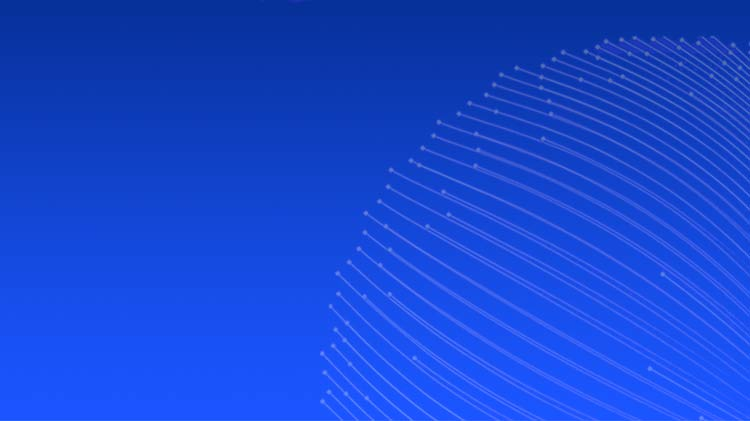
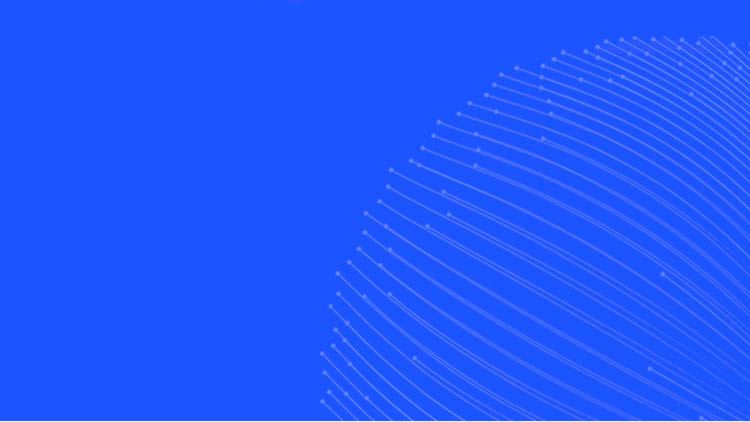
v1.0.9 modify UI

diff --git a/walletApp/src/pages/home.vue b/walletApp/src/pages/home.vue
@@ -6,38 +6,40 @@
     <!-- <p class="home-header">{{$t('index.home')}}</p> -->
     <account-detail></account-detail>
     <div class="is-backup">
+      <group>
         <cell :title="$t('index.manage_wallets')" is-link :link="`/wallet-manage?account=${this.$store.state.account}`">
-          <img slot="icon" class="backup-icon" src="../assets/icon_01-01.png" width="24" height="22" alt="">
+          <img slot="icon" class="backup-icon" src="../assets/icon_01-01.jpg" width="22" height="22" alt="">
         </cell>
-        <cell :title="$t('index.transaction_record')" is-link :link="`/trading-record?account=${this.$store.state.account}`">
-          <img slot="icon" class="backup-icon" src="../assets/icon_09.png" width="21" height="23" alt="">
+        <cell class="has-before cell-border-bottom" :title="$t('index.transaction_record')" is-link :link="`/trading-record?account=${this.$store.state.account}`">
+          <img slot="icon" class="backup-icon" src="../assets/icon_09.jpg" width="23" height="22" alt="">
         </cell>
-        <cell :title="$t('index.authorization_record')" is-link :link="`/authorization-record?account=${this.$store.state.account}`">
-          <img slot="icon" class="backup-icon" src="../assets/icon_icon011.png" width="21" height="17" alt="">
+        <cell class="cell-border-bottom cell-border-top" style="margin-top:1.428571rem;border-top: 1px solid #e5e5e5;" :title="$t('index.authorization_record')" is-link :link="`/authorization-record?account=${this.$store.state.account}`">
+          <img slot="icon" class="backup-icon" src="../assets/icon_icon011.jpg" width="25" height="24" alt="">
           <div class="badge-value" v-if="$store.state.hasMsg">
             <span class="vertical-middle">{{ $t('index.message') }} &nbsp;</span>
             <badge :text="$store.state.msgList.length"></badge>
           </div>
         </cell>
-        <cell :title="$t('index.agreement')" is-link :link="`/user-agreement`">
-          <img slot="icon" class="backup-icon" src="../assets/agreement.png" width="21" height="17" alt="">
+        <cell class="cell-border-top" style="margin-top:1.428571rem;border-top: 1px solid #e5e5e5;" :title="$t('index.agreement')" is-link :link="`/user-agreement`">
+          <img slot="icon" class="backup-icon" src="../assets/agreement.jpg" width="24" height="22" alt="">
         </cell>
-        <cell v-if="!isIdentity" :title="$t('index.identity')" is-link :link="`/identity-authentication?account=${this.$store.state.account}`">
-          <img slot="icon" class="backup-icon" src="../assets/auth.png" width="21" height="17" alt="">
+        <cell v-if="!isIdentity" class="has-before cell-border-bottom" :title="$t('index.identity')" is-link :link="`/identity-authentication?account=${this.$store.state.account}`">
+          <img slot="icon" class="backup-icon" src="../assets/auth.png" width="24" height="19" alt="">
         </cell>
-        <cell v-else :title="$t('index.identity')">
-          <img slot="icon" class="backup-icon" src="../assets/auth.png" width="21" height="17" alt="">
+        <cell v-else :title="$t('index.identity')" class="has-before cell-border-bottom">
+          <img slot="icon" class="backup-icon" src="../assets/auth.png" width="24" height="19" alt="">
           <div>
             <img src="../assets/isidentity.png" width="60" height="25" alt="">
           </div>
         </cell>
+      </group>
     </div>
   </div>
 </template>
 
 
 <script>
-import { XHeader, TransferDom, Loading, Cell, Badge } from 'vux'
+import { XHeader, TransferDom, Loading, Cell, Group, Badge } from 'vux'
 import accountDetail from '../components/accountDetail'
 export default {
   name: 'index',
@@ -49,6 +51,7 @@ export default {
     Loading,
     XHeader,
     Cell,
+    Group,
     Badge
   },
   methods: {
@@ -141,12 +144,22 @@ export default {
   }
 }
 .is-backup{
-  // border-bottom: 1px solid #D9D9D9;
+  // border-bottom: 1px solid #e5e5e5;
+  background-color: #cccccc1a;
   font-size: 16px;
   color: #333333;
-  background-color:#fff;
   .weui-cell{
-    border-bottom: 1px solid #D9D9D9;
+    // border-bottom: 1px solid #e5e5e5;
+    background: #ffffff;
+  }
+  .has-before:before{
+    border-top: 1px solid #98b3db!important;
+  }
+  .cell-border-top{
+    border-top:1px solid #d3e1f5!important;
+  }
+  .cell-border-bottom{
+    border-bottom:1px solid #d3e1f5!important;
   }
 }
 // @header-background-color:#fff

diff --git a/walletApp/src/pages/index.vue b/walletApp/src/pages/index.vue
@@ -12,18 +12,18 @@
     </x-header> -->
     <div class="index-header">
       <img @click="onClickMore" class="sys" src="../assets/language.png"/>
-      <img @click="qrcode" class="sys" style="float:right;margin-right:1.142857rem" src="../assets/sys.png"/>
+      <img v-if="isNative" @click="qrcode" class="sys" style="float:right;margin-right:1.142857rem" src="../assets/sys.png"/>
     </div>
     <account-detail></account-detail>
     <div class="is-backup">
-      <cell v-if="isTransfer" :title="$t('index.SIC')" :value="balance + '  SIC'" is-link :link="`/transfer?account=${this.$store.state.account}`">
-        <img slot="icon" class="backup-icon" src="../assets/icon_14.png" width="25" height="25" alt="">
+      <cell v-if="isTransfer" class="none-bottom" :title="$t('index.SIC')" :value="balance + '  SIC'" is-link :link="`/transfer?account=${this.$store.state.account}`">
+        <img slot="icon" class="backup-icon" src="../assets/icon_14.png" width="20" height="22" alt="">
       </cell>
       <cell v-else :title="$t('index.SIC')" :value="balance + '  SIC'" >
-        <img slot="icon" class="backup-icon" src="../assets/icon_14.png" width="25" height="25" alt="">
+        <img slot="icon" class="backup-icon" src="../assets/icon_14.png" width="20" height="22" alt="">
       </cell>
       <cell :title="$t('index.backup_wallet')" is-link :link="`/wallet-backup?account=${this.$store.state.account}`">
-        <img slot="icon" class="backup-icon" src="../assets/icon_11.png" width="25" height="25" alt="">
+        <img slot="icon" style="margin-left:-2px" class="backup-icon" src="../assets/icon_11.png" width="24" height="22" alt="">
       </cell>
     </div>
     <div v-transfer-dom>
@@ -246,7 +246,9 @@ export default {
     this.box && this.box.removeEventListener('scroll', this.handler, false)
   },
   created () {
-    this.checkUpdate()
+    if (AppConfig.isNative) {
+      this.checkUpdate()
+    }
     this.wallets = this.$common.get_wallets()
     if (this.$route.query.account) {
       this.$store.state.account = this.$route.query.account
@@ -300,6 +302,7 @@ export default {
       isVersions: AppConfig.versions,
       serverAppVersion: '',
       AppUpDataUrl: '',
+      isNative: AppConfig.isNative,
       isTransfer: AppConfig.isTransfer
     }
   }
@@ -341,8 +344,14 @@ export default {
   color: #333333;
   background-color:#fff;
   .weui-cell{
-    border-bottom: 1px solid #D9D9D9;
+    border-bottom: 1px solid #e5e5e5;
   }
+  // .none-bottom{
+  //   border-bottom:none;
+  // }
+  // .weui-cell:before{
+  //   border-top: 1px solid #e5e5e5;
+  // }
 }
 .eye{
   width: 1.214286rem;
@@ -351,7 +360,7 @@ export default {
 }
 .balance{
   line-height: 1.5rem;
-  border-bottom: 1px solid #D9D9D9;
+  border-bottom: 1px solid #e5e5e5;
   background-color:#fff;
   padding: 2px 0;
 }

diff --git a/walletApp/src/App.vue b/walletApp/src/App.vue
@@ -144,7 +144,6 @@ export default {
       this.$router.push('/create-account')
     } else {
       if (this.$store.state.account === '') {
-        console.log(this.$route.params.account)
         if (this.$route.params.account) {
           this.$store.state.account = this.$route.params.account
         } else {
@@ -152,7 +151,7 @@ export default {
         }
       }
     }
-    if (!this.$common.getStore(AppConfig.versions)) {
+    if (AppConfig.isNative && !this.$common.getStore(AppConfig.versions)) {
       this.$common.setStore(AppConfig.versions, AppConfig.versions)
       this.$router.push('/guidance')
     }
@@ -180,6 +179,17 @@ export default {
   .is-error-step .vux-step-item-main{
     color: #f59902!important;
   }
+  .vux-header .vux-header-title{
+    font-weight: 200!important;
+  }
+  .vux-fixed .vux-tab{
+    height: 3.285714rem!important;
+    background-color:#3287fd!important;
+    .vux-tab-item.vux-tab-selected{
+      color:#ffffff!important;
+      font-weight: 200!important;
+    }
+  }
   // .vux-header {
   //   padding: 1.428571rem 0 3px 0!important;
   // }
@@ -204,6 +214,19 @@ export default {
     font-size: 1.571429rem;
     color: #888;
   }
+  #vux_view_box_body{
+    background-color: #f5f5f5;
+  }
+  .weui-cells{
+    margin-top: 0!important;
+    background-color: #f5f5f5!important;
+  }
+  .weui-cell{
+    background-color: #ffffff;
+  }
+  .weui-cell:before{
+    border-top: none!important;
+  }
   .weui-tabbar.vux-demo-tabbar {
     /** backdrop-filter: blur(10px);
     background-color: none;
@@ -211,6 +234,9 @@ export default {
   }
   .vux-demo-tabbar .weui-bar__item_on .demo-icon-22 {
     color: #F70968;
+  }
+  .weui-cell_access .weui-cell__ft:after{
+    border-color: #8a8a8c!important;
   }
   .vux-demo-tabbar .weui-tabbar_item.weui-bar__item_on .vux-demo-tabbar-icon-home {
     color: rgb(53, 73, 94);

diff --git a/walletApp/src/pages/InsurancePolicy.vue b/walletApp/src/pages/InsurancePolicy.vue
@@ -19,7 +19,7 @@
           </cell> -->
         <!-- </group> -->
         <div style="height:3.142857rem;">
-          <sticky ref="sticky" scroll-box="vux_view_box_body" :offset="-2" style="z-index: 99999" :check-sticky-support="false">
+          <sticky ref="sticky" scroll-box="vux_view_box_body" :offset="-10" style="z-index: 99999" :check-sticky-support="false">
             <tab style="margin-top:0.714286rem;" v-model="index" prevent-default @on-before-index-change="switchTabItem">
               <tab-item v-if="index === 0" selected>{{$t('policy.history_policy')}}</tab-item>
               <tab-item v-else>{{$t('policy.history_policy')}}</tab-item>
@@ -41,7 +41,7 @@
             <card class="wrap-item" v-if="policyList.length > 0" v-for="(item,index) in policyList" :key="index">
               <cell slot="header" :title="$t('policy.upload_time')">{{item.upload_time.replace('T', ' ')}}</cell>
               <cell slot="content" v-if="item.status === 5" :title="$t('policy.policy_file')">{{item.ID}}</cell>
-              <cell slot="content" v-if="item.status === 4" :title="$t('policy.policy_num')"><span style="color:#4656ff">{{item.policyID}}</span></cell>
+              <cell slot="content" v-if="item.status === 4" :title="$t('policy.policy_num')"><span style="color:#3287fd">{{item.policyID}}</span></cell>
               <cell slot="content" v-if="item.status === 5" :title="$t('policy.policy_value')"><span style="color:#f59902">{{item.value}}</span></cell>
               <cell slot="content" v-if="item.status === 2 || item.status === 1" :title="$t('policy.policy_file')">{{item.ID}}</cell>
               <step slot="footer" class="step" v-model="item.status" background-color='#fbf9fe'>

diff --git a/walletApp/src/pages/createAccount.vue b/walletApp/src/pages/createAccount.vue
@@ -5,7 +5,9 @@
     </div> -->
     <x-header v-if="$store.state.account" :left-options="{backText: '返回'}"></x-header>
     <!-- <x-header v-else :left-options="{showBack: false}"></x-header> -->
-    <p v-else style="height:30px;"></p>
+    <x-header v-else style="margin-bottom:12px;" :left-options="{showBack: false}"></x-header>
+    <!-- <p v-else style="height:30px;height: 18px;
+    margin-bottom: 12px;background-color: #3287fd;"></p> -->
     <div class="creat-box" :class="$store.state.account ? 'hastop' : ''">
       <div class="logo">
         <div class="logo-left">
@@ -205,11 +207,13 @@ export default{
 </script>
 <style lang="less" scoped>
 .vux-header{
-  background-color: #ffffff!important;
   height: 40px;
+  .vux-header-back{
+    color: #ffffff!important;
+  }
 }
 .header{
-  background-color: #ffffff!important;
+  background-color: #3287fd!important;
   position: relative;
   color: #000000;
   text-align: left;
@@ -291,6 +295,7 @@ export default{
 .weui-cell{
   padding: 5px 0;
   border-bottom: 1px solid #D9D9D9;
+  background: #f6f5f9;
 }
 .weui-cell:before {
     content: " ";

diff --git a/walletApp/src/components/step.vue b/walletApp/src/components/step.vue
@@ -79,7 +79,7 @@ export default {
   transition: all 0.4s ease 0s;
 }
 .vux-step-item-tail-finish {
-  background: #0001fe none repeat scroll 0 0;
+  background: #3287fd none repeat scroll 0 0;
 }
 .vux-step-item-tail-process, .vux-step-item-tail-wait {
   background: #CCC none repeat scroll 0 0;
@@ -115,13 +115,13 @@ export default {
   }
 }
 .vux-step-item-head-finish .vux-step-item-head-inner{
-  border: 1px solid #0001fe;
-  color: #0001fe;
+  border: 1px solid #3287fd;
+  color: #3287fd;
 }
 .vux-step-item-head-process .vux-step-item-head-inner{
-  border: 1px solid #0001fe;
+  border: 1px solid #3287fd;
   color: #FFF;
-  background: #0001fe none repeat scroll 0 0;
+  background: #3287fd none repeat scroll 0 0;
 }
 .vux-step-item-head-wait .vux-step-item-head-inner {
   border: 1px solid #888;
@@ -139,6 +139,6 @@ export default {
   color: #666;
 }
 .vux-step-item-icon .weui-icon-success-no-circle{
-  color: #0001fe;
+  color: #3287fd;
 }
 </style>

diff --git a/walletApp/src/style/theme.less b/walletApp/src/style/theme.less
@@ -1,11 +1,11 @@
-@header-background-color:#ffffff;
-@header-title-color:#000000;
-@header-text-color:#000000;
-@header-arrow-color:#000000;
-@tabbar-text-active-color:#4656ff;
-@tab-text-active-color:#4656ff;
-@tab-bar-active-color:#4656ff;
-@button-primary-bg-color:#4656ff;
+@header-background-color:#3287fd;
+@header-title-color:#ffffff;
+@header-text-color:#ffffff;
+@header-arrow-color:#ffffff;
+@tabbar-text-active-color:#3287fd;
+@tab-text-active-color:#3287fd;
+@tab-bar-active-color:#3287fd;
+@button-primary-bg-color:#3287fd;
 @button-primary-disabled-bg-color:#8992ef;
 /*
 #0db9b7

diff --git a/walletApp/config/index.js b/walletApp/config/index.js
@@ -27,7 +27,7 @@ module.exports = {
     // Various Dev Server settings
     host: '10.3.1.150', // can be overwritten by process.env.HOST
     // host: '192.168.1.202',
-    port: 9090, // can be overwritten by process.env.PORT, if port is in use, a free one will be determined
+    port: 9091, // can be overwritten by process.env.PORT, if port is in use, a free one will be determined
     autoOpenBrowser: false,
     errorOverlay: true,
     notifyOnErrors: true,

diff --git a/walletApp/src/components/accountDetail.vue b/walletApp/src/components/accountDetail.vue
@@ -1,6 +1,6 @@
 <template>
   <div class="detail" @click="goIndex">
-    <img class="background" src="../assets/top_bg.jpg" alt="">
+    <img class="background" src="../assets/top_bg.png" alt="">
     <div class="account-detail">
       <div class="image-wrap">
         <account-image style="margin-top:7px;" :account="wallet.account" :size="16"></account-image>

diff --git a/walletApp/src/libs/config.js b/walletApp/src/libs/config.js
@@ -1,6 +1,7 @@
 let appConfig = {
   // 转账开关
   isTransfer: true,
-  versions: '1.0.8'
+  versions: '1.0.9',
+  isNative: false
 }
 export default appConfig
